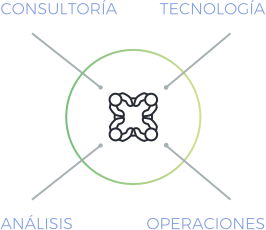
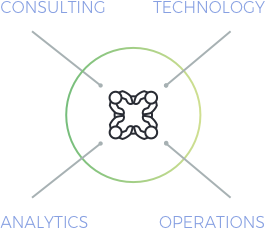
Incorporació de noves imatges en anglés

diff --git a/_includes/patterns/nav-main.html b/_includes/patterns/nav-main.html
@@ -28,7 +28,9 @@
   <li>
     <a class="nav-main__link {% if current_section == current_text_3 %}is-active{% endif %}" href="{{ site.baseurl }}/{{ site.t[page.lang]nav_main.link_3 }}">{{ site.t[page.lang]nav_main.text_3 }}</a>
   </li>
+  {% comment %}
   <li>
-    <a class="nav-main__link {% if current_section == current_text_3 %}is-active{% endif %}" href="{{ site.baseurl }}/{{ site.t[page.lang]nav_main.link_3 }}">Blog</a>
+    <a class="nav-main__link {% if current_section == current_text_3 %}is-active{% endif %}" href="{{ site.baseurl }}/{{ site.t[page.lang]nav_main.link_4 }}">Blog</a>
   </li>
+  {% endcomment %}
 </ul>
